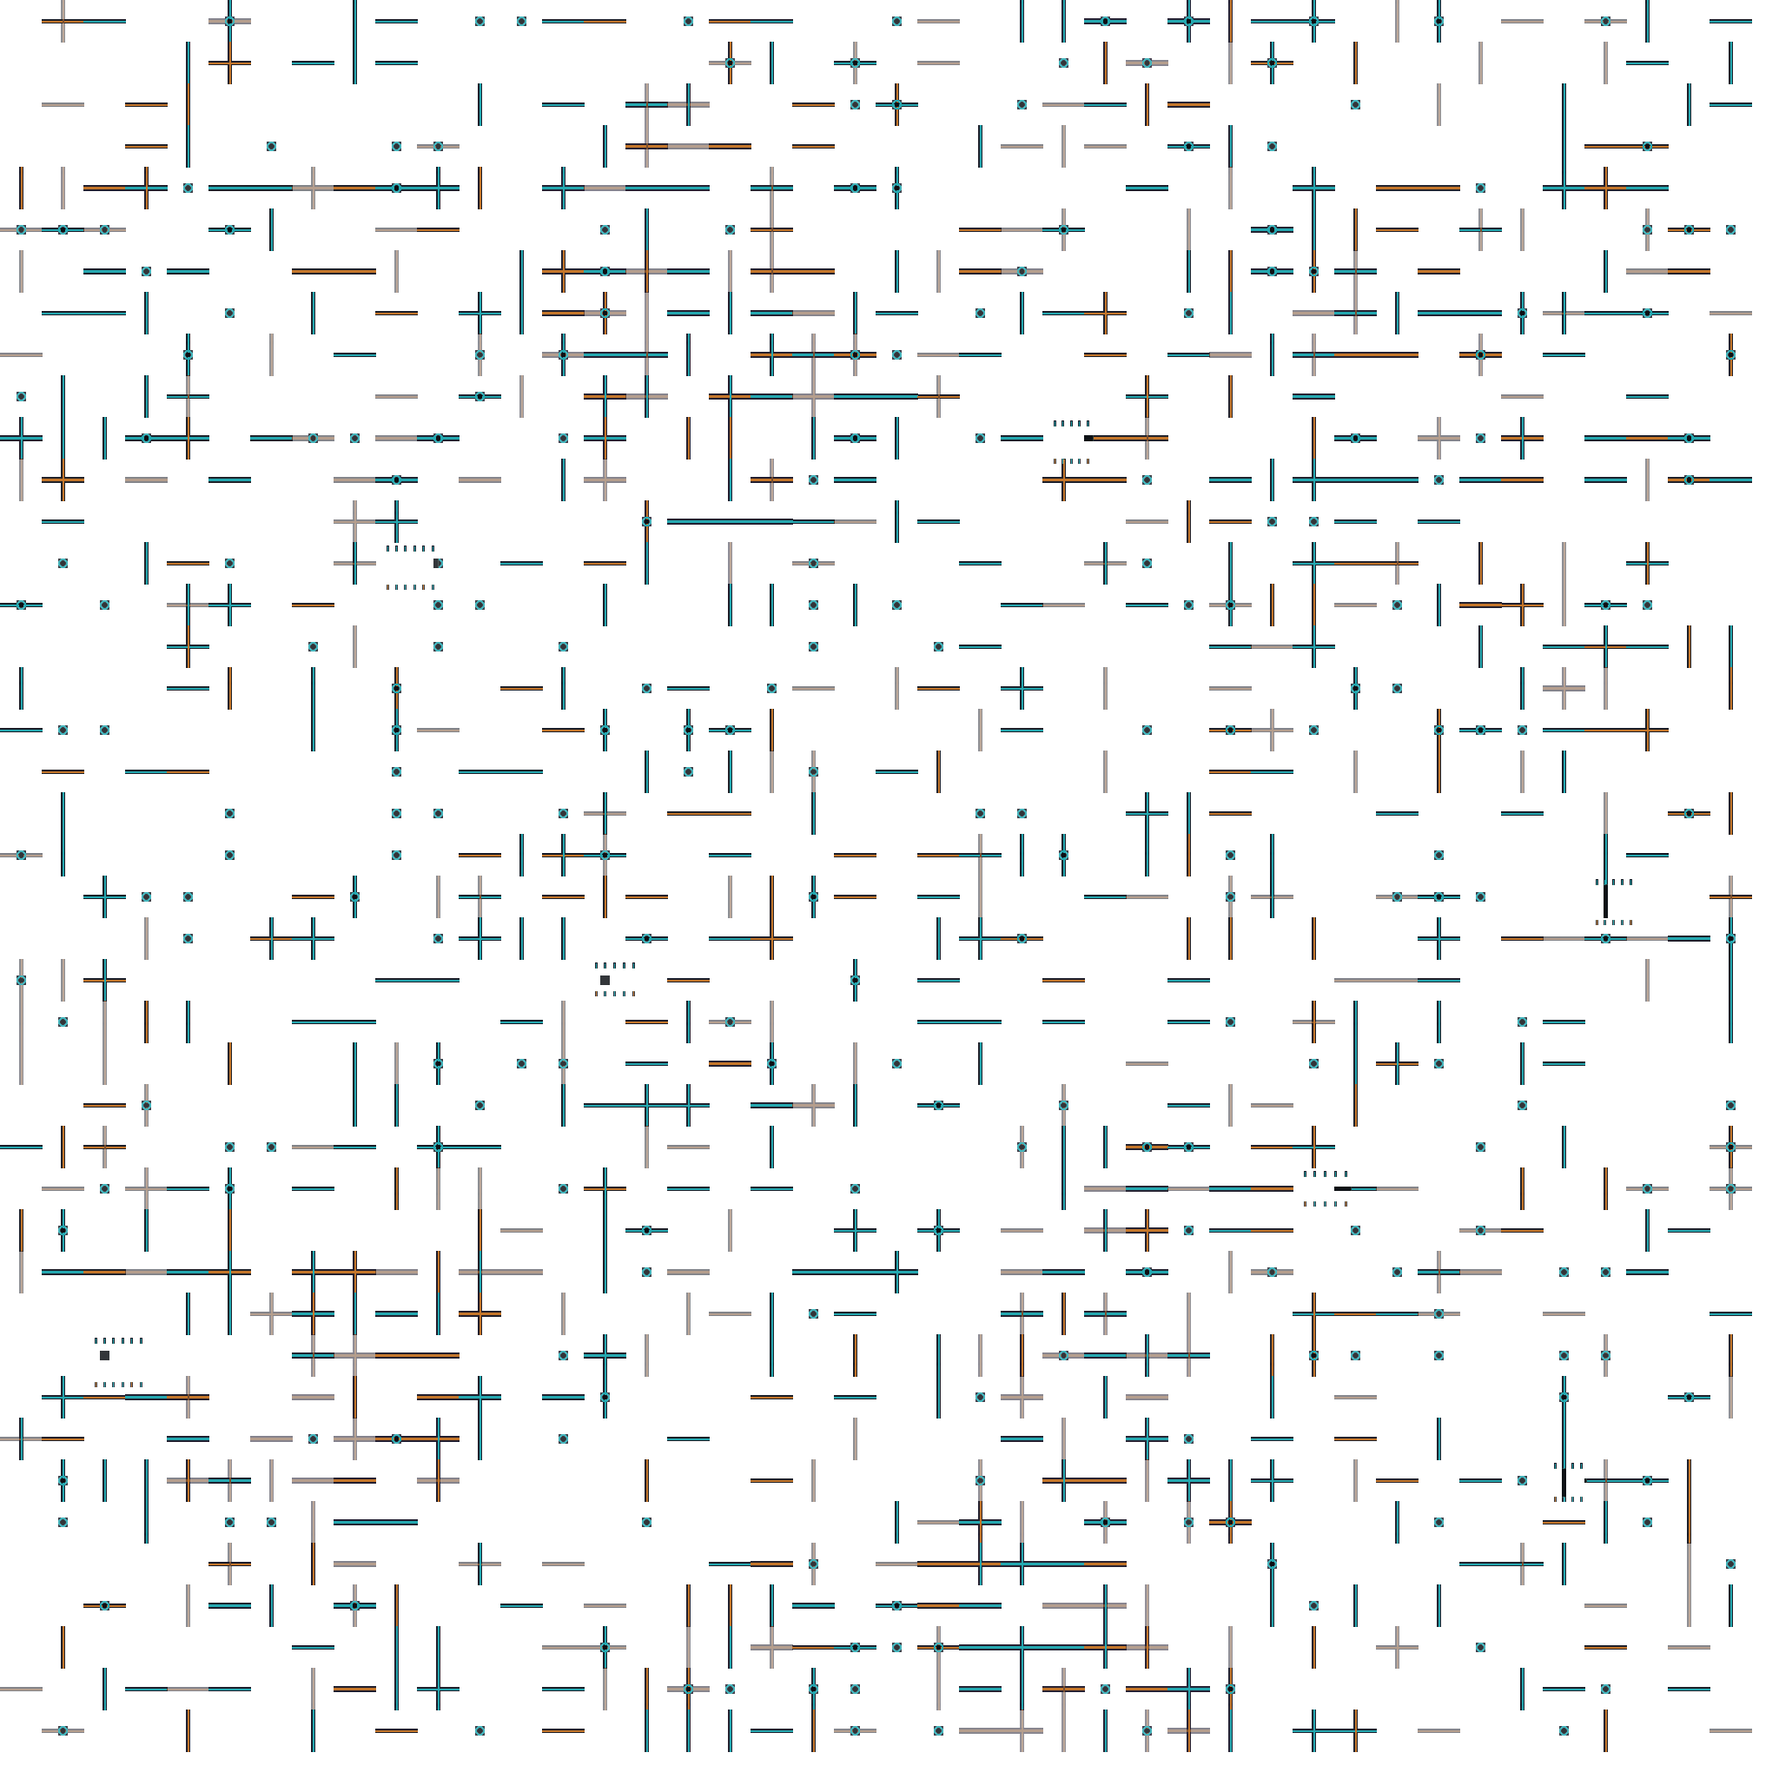
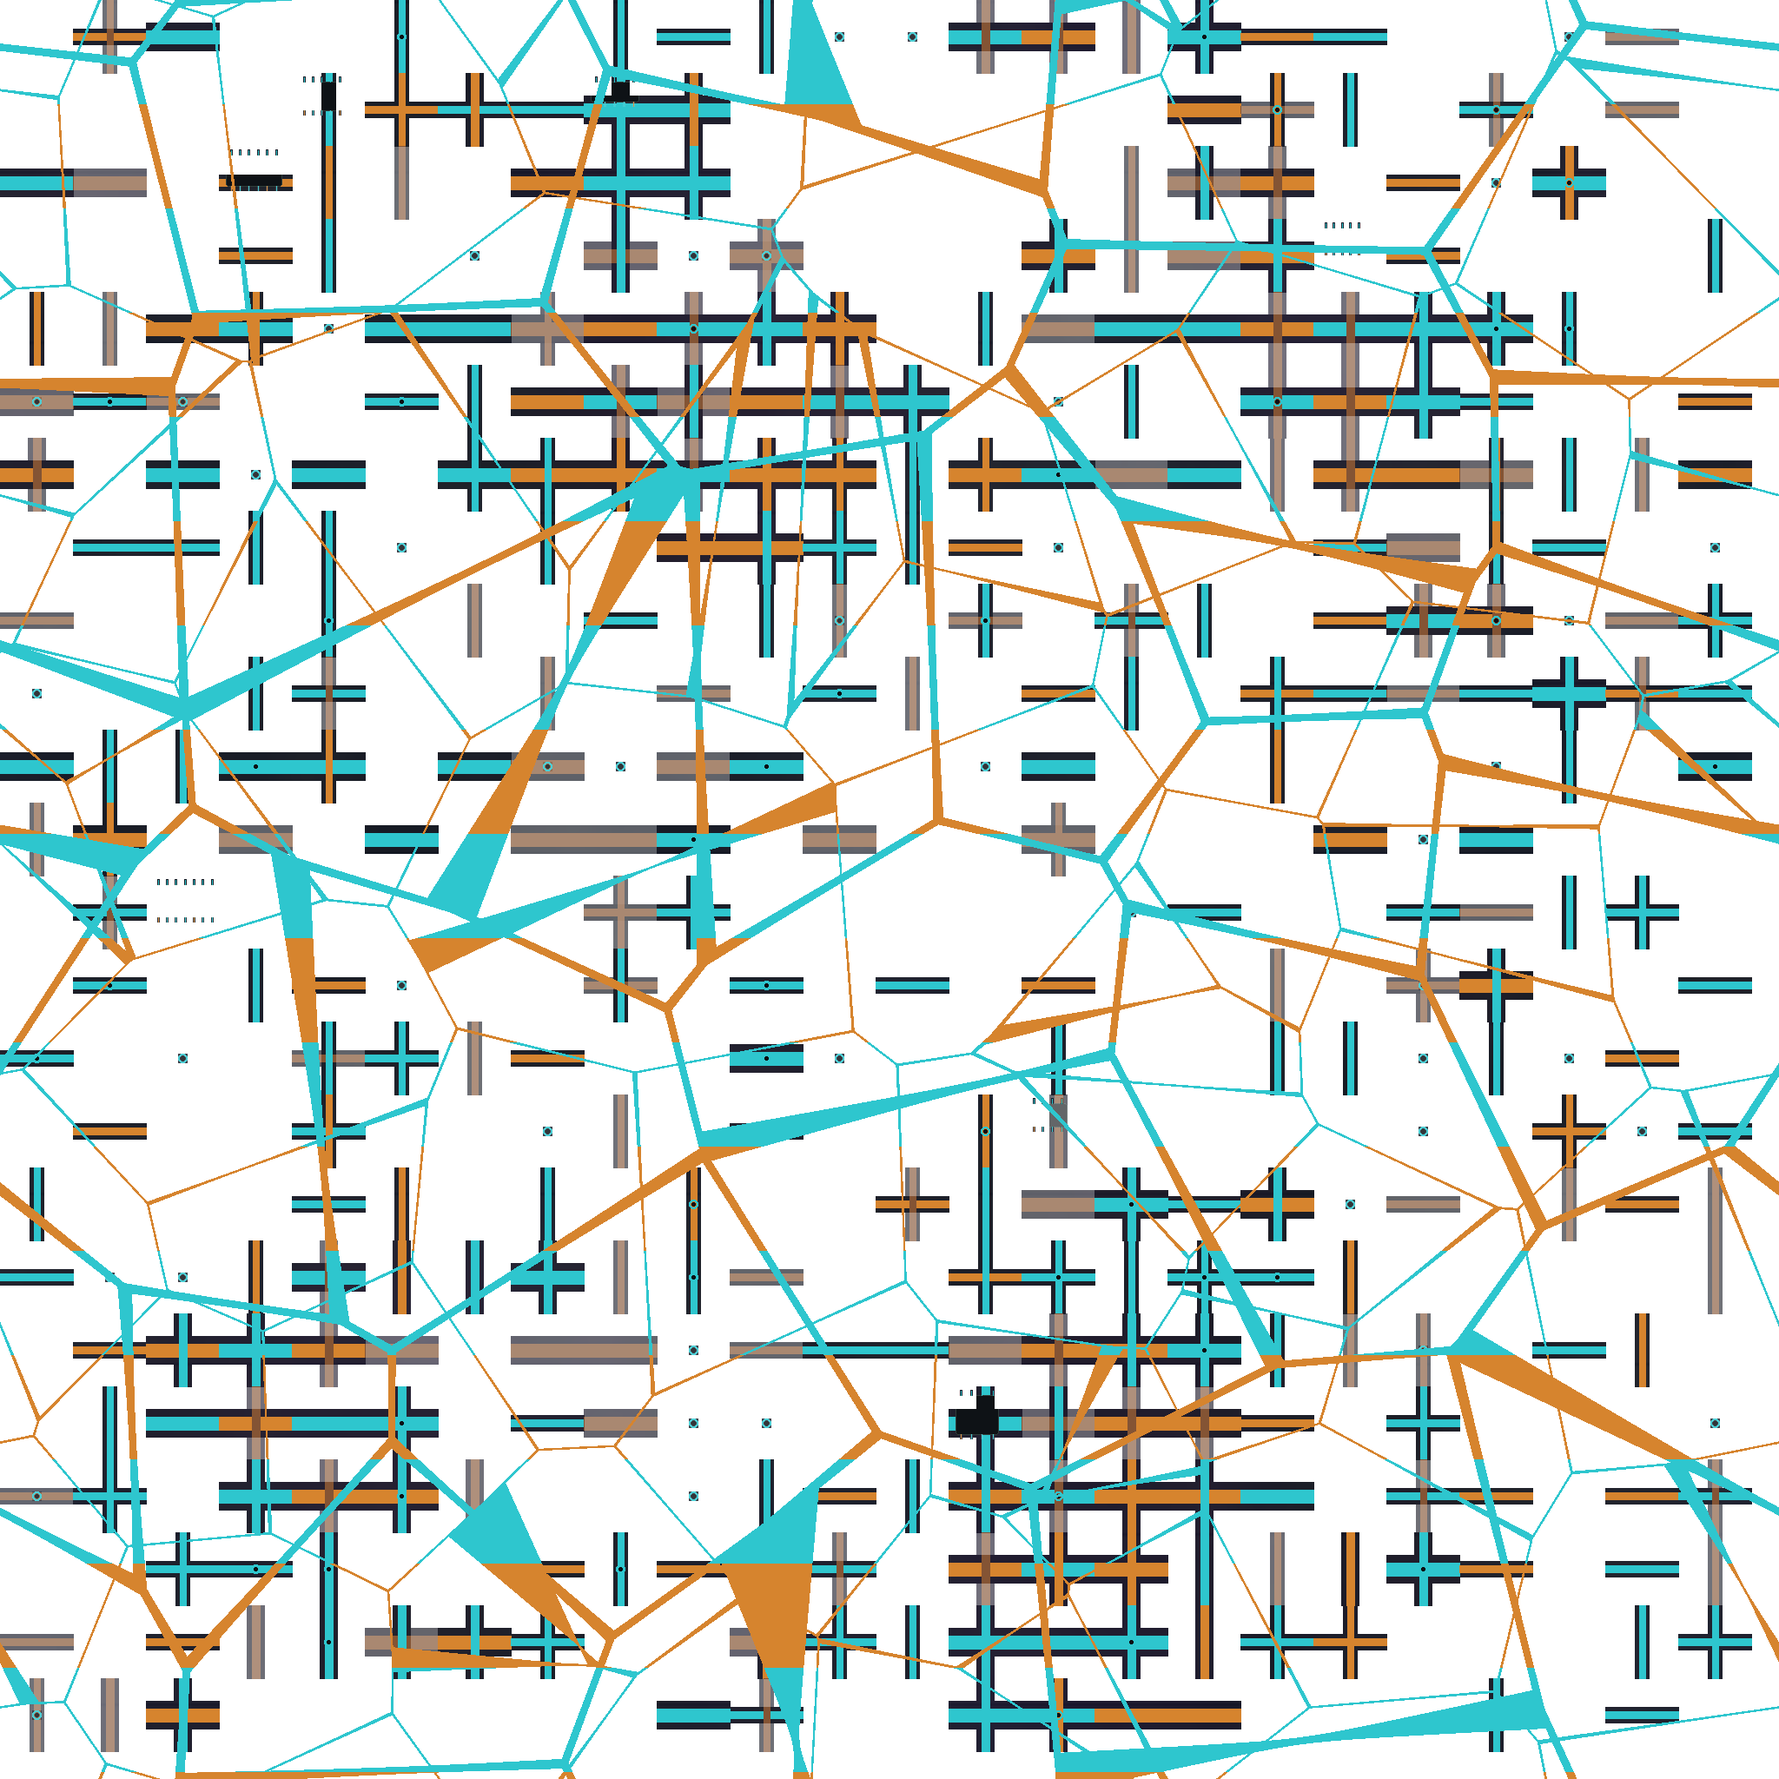
Harbor: dull the façade growth and open the circuit peeks
Night-grade the moss, kudzu, and fungus so the concrete stays a dark olive. Widen cracks, flakes, and corner peels so the circuit underlayer shows with a small glint, while the growth still covers most of the wall.

diff --git a/harbor.html b/harbor.html
@@ -1423,32 +1423,57 @@ const buildingMat = new THREE.ShaderMaterial({
       inPane *= (1.0 - inDoorCol);
       // Dual sheath on vertical concrete only (Virgil: circuit under, living cover).
       // Samples stay outside the branch — WebGL1 derivatives need a uniform flow.
-      // Tile is façade-local metres (concUV), not world XZ. Growth alpha is the
-      // cover: smoothstep keeps moss shut and leaves peeks in deep cracks and
-      // flaked patches. Low-frequency wear plus corner thinning open a few
-      // places the tile itself does not, so the sheet does not stamp.
-      vec2 sheathUv = concUV / 1.68 + vec2(vId * 0.37, vId * 0.21);
+      // Tile is façade-local metres (concUV), not world XZ.
+      // Growth alpha is mostly shut. Openings are the atlas cracks/flakes plus
+      // a few world-space worn patches, fissures, and a narrow corner peel —
+      // wide enough that the circuit actually reads at night.
+      vec2 sheathUv = concUV / 2.05 + vec2(vId * 0.37, vId * 0.21);
       vec4 circuit = texture2D(uSheathCircuit, sheathUv);
       vec4 growth = texture2D(uSheathGrowth, sheathUv);
-      float cover = smoothstep(0.18, 0.70, growth.a);
-      float worn = smoothstep(0.64, 0.80, fbm(concUV * 0.16 + vec2(vId * 0.07, 2.7)));
-      cover *= mix(1.0, 0.12, worn);
-      float edgePeek = 1.0 - smoothstep(0.045, 0.26, edgeDistM);
-      cover *= mix(1.0, 0.22, edgePeek);
+      // Cap the mat. A small olive lift stays under the paint threshold.
+      vec3 moss = min(growth.rgb, vec3(0.11, 0.14, 0.10));
+      moss.g = min(moss.g + 0.012, 0.14);
+      // Steep cover so a mip-blurred edge stays moss and a real opening stays open.
+      float cover = smoothstep(0.04, 0.30, growth.a);
+      // Binary openings — a soft shoulder was a bright circuit haze.
+      // Worn patches, a few per façade, large enough to show a run of traces.
+      float flake = step(0.80, fbm(concUV * 0.62 + vec2(2.2, vId * 0.09)));
+      // Fissures a few centimetres wide. Gated so they are not a barcode.
+      float seamU = abs(fract(concUV.x * 1.15 + vId * 0.13) - 0.5);
+      float seamV = abs(fract(concUV.y * 0.72 + 0.37) - 0.5);
+      float crackLine = max(step(seamU, 0.020), step(seamV, 0.016));
+      float crackGate = step(0.76, fbm(concUV * 0.48 + vec2(vId, 5.1)));
+      float edgePeek = step(edgeDistM, 0.10);
+      cover *= 1.0 - max(max(flake, crackLine * crackGate), edgePeek);
       cover = clamp(cover, 0.0, 1.0);
-      vec3 under = mix(wallCol, circuit.rgb, 0.86);
-      float trace = circuit.a * (1.0 - cover);
-      vec3 sheathCol = mix(under, growth.rgb, cover);
-      // Night glint on uncovered traces. Small lift — lanterns still own bloom.
-      sheathCol += circuit.rgb * trace * 0.32;
-      sheathCol = mix(sheathCol, sheathCol * vec3(0.88, 0.94, 1.04), (1.0 - ndl) * 0.30);
+      // Board that shows inside an opening: atlas traces, plus metre-scale
+      // runs so a flake is recognizably circuitry and not bare concrete.
+      float hOn = step(0.42, hash(vec2(floor(concUV.y * 3.4), vId + 1.0)));
+      float vOn = step(0.52, hash(vec2(floor(concUV.x * 2.8), vId + 4.0)));
+      float hLine = 1.0 - smoothstep(0.03, 0.11, abs(fract(concUV.y * 3.4) - 0.5));
+      float vLine = 1.0 - smoothstep(0.03, 0.10, abs(fract(concUV.x * 2.8) - 0.5));
+      float pcb = max(hLine * hOn, vLine * vOn);
+      float viaCell = hash(floor(concUV * 3.4) + vec2(vId, 2.0));
+      float via = smoothstep(0.16, 0.02, length(fract(concUV * 3.4) - 0.5));
+      pcb = max(pcb, via * step(0.78, viaCell));
+      float amberPick = step(0.67, hash(vec2(floor(concUV.y * 3.4 + concUV.x), vId)));
+      vec3 traceCol = mix(vec3(0.09, 0.40, 0.44), vec3(0.52, 0.26, 0.07), amberPick);
+      // Atlas traces are hot in the PNG; pull them into a night glint before mix.
+      vec3 circuitNight = mix(circuit.rgb * 0.72, circuit.rgb * vec3(0.42, 0.55, 0.55), circuit.a);
+      vec3 under = mix(circuitNight, traceCol, max(pcb, circuit.a));
+      vec3 sheathCol = mix(under, moss, cover);
+      // Subtle night glint on whatever trace is actually uncovered.
+      float exposed = max(pcb, circuit.a) * (1.0 - cover);
+      sheathCol += traceCol * exposed * 0.16;
+      sheathCol = mix(sheathCol, sheathCol * vec3(0.90, 0.94, 1.03), (1.0 - ndl) * 0.22);
       float sheathGate = step(0.5, uSheathOn) * isVert;
       vec3 faceCol = mix(wallCol, sheathCol, sheathGate);
       // Unsheathed mullion (roof fallback / failed atlas) stays the old dark bar.
       vec3 mullionPlain = mix(wallCol * 0.42, vColor * 0.08 + vec3(0.012, 0.013, 0.018), 0.55);
-      // Sheathed mullion is the same growth, dimmed, so the frame still cuts
-      // the fenestra and a little moss / trace still reads on the bar.
-      vec3 mullionSheath = mix(sheathCol * vec3(0.52, 0.58, 0.46), vec3(0.008, 0.012, 0.011), 0.24);
+      // Frame stays darker than the pier. The glint is re-added so a trace
+      // on the bar is not crushed back into the moss.
+      vec3 mullionSheath = mix(sheathCol, vec3(0.010, 0.014, 0.012), 0.34);
+      mullionSheath += traceCol * exposed * 0.20;
       vec3 mullionCol = mix(mullionPlain, mullionSheath, sheathGate);
       vec3 body = mix(faceCol, mullionCol, frameBand * 0.94);
 
@@ -1853,15 +1878,16 @@ loadStreetAtlas();
 
 // Circuit underlayer + moss/kudzu/fungus cover. Vertical concrete only.
 // A failed load leaves uSheathOn at 0 (procedural night concrete).
-const sheathCache = location.protocol === 'file:' ? '' : '?v=sheath1';
+const sheathCache = location.protocol === 'file:' ? '' : '?v=sheath3';
 function prepSheath(tex) {
   tex.colorSpace = THREE.NoColorSpace;
   tex.wrapS = THREE.RepeatWrapping;
   tex.wrapT = THREE.RepeatWrapping;
-  tex.minFilter = THREE.LinearMipmapLinearFilter;
+  // No mips — a blurred alpha turns the circuit into a bright haze.
+  tex.minFilter = THREE.LinearFilter;
   tex.magFilter = THREE.LinearFilter;
-  tex.generateMipmaps = true;
-  tex.anisotropy = Math.min(8, renderer.capabilities.getMaxAnisotropy());
+  tex.generateMipmaps = false;
+  tex.anisotropy = 1;
   tex.needsUpdate = true;
   return tex;
 }

diff --git a/06-intermediate-assets/gen-facade-sheath.py b/06-intermediate-assets/gen-facade-sheath.py
@@ -164,7 +164,14 @@ def worn_mask(rng):
     return np.clip(worn, 0.0, 1.0)
 
 
-def build_circuit(rng, worn):
+def make_cracks(rng):
+    """Fissures a couple of centimetres wide once the tile is ~2 m on the wall."""
+    crack = torus_voronoi_edge(N, 28, 22.0, rng)
+    fine = torus_voronoi_edge(N, 64, 9.0, np.random.default_rng(int(rng.integers(0, 1_000_000))))
+    return np.clip(np.maximum(crack, fine * 0.85), 0.0, 1.0)
+
+
+def build_circuit(rng, worn, crack):
     concrete_n = fbm(N, rng, 5, 4)
     fine = fbm(N, rng, 3, 28)
     stain = fbm(N, rng, 3, 7)
@@ -188,9 +195,10 @@ def build_circuit(rng, worn):
     draw = ImageDraw.Draw(img)
 
     trace = np.zeros((N, N), np.float32)
-    teal = (36, 168, 176, 255)
-    amber = (196, 118, 42, 255)
-    copper = (120, 78, 48, 255)
+    # Bright enough to read in a night opening, not a neon flood.
+    teal = (46, 198, 206, 255)
+    amber = (214, 132, 46, 255)
+    copper = (132, 84, 52, 255)
 
     def stroke(p0, p1, color, width, strength):
         draw.line([p0, p1], fill=color, width=width)
@@ -222,7 +230,7 @@ def build_circuit(rng, worn):
                 trace[ya:, x0b:x1b] = np.maximum(trace[ya:, x0b:x1b], strength)
                 trace[: yb + 1, x0b:x1b] = np.maximum(trace[: yb + 1, x0b:x1b], strength)
 
-    grid = 48
+    grid = 84
     cells = N // grid
     # Sparse Manhattan traces. Highways on a few rows/cols.
     for j in range(cells):
@@ -236,19 +244,19 @@ def build_circuit(rng, worn):
             wx = min(N - 1, x0 + grid // 2)
             wy = min(N - 1, y)
             local = float(worn[wy, wx])
-            thresh = 0.78 - 0.28 * local - (0.18 if highway else 0.0)
+            thresh = 0.74 - 0.62 * local - (0.22 if highway else 0.0)
             if h > thresh:
                 col = amber if cell_hash(i, j, 4) > 0.72 else (teal if cell_hash(i, j, 5) > 0.35 else copper)
-                width = 3 if highway or local > 0.45 else 2
-                stroke((x0, y), (x1, y), col, width, 1.0 if col != copper else 0.55)
+                width = 16 if highway or local > 0.4 else 9
+                stroke((x0, y), (x1, y), col, width, 1.0 if col != copper else 0.7)
             x = i * grid + grid // 2
             y0 = j * grid
             y1 = y0 + grid
             v = cell_hash(i, j, 6)
-            vthresh = 0.80 - 0.30 * local
+            vthresh = 0.76 - 0.64 * local
             if v > vthresh:
                 col = amber if cell_hash(i, j, 7) > 0.78 else (teal if cell_hash(i, j, 8) > 0.4 else copper)
-                stroke((x, y0), (x, y1), col, 2, 1.0 if col != copper else 0.5)
+                stroke((x, y0), (x, y1), col, 10 if local > 0.35 else 8, 1.0 if col != copper else 0.65)
 
     # Vias and a few dark IC pads — pads stay matte, pins carry the glint.
     via_r = 5
@@ -283,23 +291,36 @@ def build_circuit(rng, worn):
             trace[y + h: min(N, y + h + 6), max(0, xi - 1): min(N, xi + 2)] = 0.9
 
     arr = np.array(img)
+    # Fissures themselves carry a trace, so a crack opens onto circuitry
+    # rather than bare concrete.
+    core = crack > 0.62
+    band = (np.arange(N, dtype=np.int32)[:, None] // 120) & 1
+    teal_m = core & (band == 0)
+    amber_m = core & (band == 1)
+    arr[teal_m, 0] = 46
+    arr[teal_m, 1] = 198
+    arr[teal_m, 2] = 206
+    arr[amber_m, 0] = 214
+    arr[amber_m, 1] = 132
+    arr[amber_m, 2] = 46
+    trace = np.maximum(trace, core.astype(np.float32))
     # alpha = trace strength. Concrete stays 0 so the shader glow is traces only.
     arr[:, :, 3] = np.clip(trace * 255.0, 0, 255).astype(np.uint8)
     return arr
 
 
-def build_growth(rng, worn):
+def build_growth(rng, worn, crack):
     base_n = fbm(N, rng, 5, 4)
     blot = fbm(N, rng, 4, 8)
     fine = fbm(N, rng, 3, 22)
     damp = fbm(N, rng, 3, 6)
-    # Deep wet olive. Local contrast so leaves and shelves survive night grade.
-    r = 16 + base_n * 22 + blot * 10
-    g = 28 + base_n * 36 + blot * 14
-    b = 14 + base_n * 16 + damp * 8
-    r += (fine - 0.5) * 10
-    g += (fine - 0.5) * 14
-    b += (damp - 0.5) * 8
+    # Dull night olive. Green stays ahead of red, but the value stays low.
+    r = 20 + base_n * 16 + blot * 6
+    g = 30 + base_n * 26 + blot * 8
+    b = 16 + base_n * 12 + damp * 5
+    r += (fine - 0.5) * 6
+    g += (fine - 0.5) * 8
+    b += (damp - 0.5) * 5
     # Blue-black damp pockets
     pocket = np.clip((damp - 0.62) / 0.25, 0.0, 1.0)
     r = r * (1 - 0.35 * pocket) + pocket * 10
@@ -321,15 +342,15 @@ def build_growth(rng, worn):
         # hanging bias: mostly downward, some lateral creep
         bias = float(rng.uniform(0.35, 1.15))
         vine_col = (
-            int(rng.integers(28, 58)),
-            int(rng.integers(36, 62)),
-            int(rng.integers(16, 30)),
+            int(rng.integers(16, 32)),
+            int(rng.integers(20, 36)),
+            int(rng.integers(12, 22)),
             255,
         )
         leaf_rgb = (
-            int(rng.integers(36, 78)),
-            int(rng.integers(64, 118)),
-            int(rng.integers(22, 48)),
+            int(rng.integers(26, 42)),
+            int(rng.integers(40, 62)),
+            int(rng.integers(18, 30)),
         )
         pts = []
         for s in range(steps):
@@ -368,10 +389,10 @@ def build_growth(rng, worn):
         y = float(rng.uniform(0, N))
         rad = float(rng.uniform(6, 28))
         col = (
-            int(rng.integers(18, 52)),
-            int(rng.integers(40, 92)),
-            int(rng.integers(16, 40)),
-            int(rng.integers(150, 220)),
+            int(rng.integers(18, 34)),
+            int(rng.integers(32, 52)),
+            int(rng.integers(14, 26)),
+            int(rng.integers(160, 220)),
         )
         sprite = Image.new("RGBA", (int(rad * 2 + 2), int(rad * 2 + 2)), (0, 0, 0, 0))
         ImageDraw.Draw(sprite).ellipse([1, 1, sprite.size[0] - 2, sprite.size[1] - 2], fill=col)
@@ -388,10 +409,10 @@ def build_growth(rng, worn):
             h = float(rng.uniform(7, 14))
             yy = cy + s * float(rng.uniform(6, 11))
             bone = (
-                int(rng.integers(118, 168)),
-                int(rng.integers(96, 132)),
-                int(rng.integers(62, 92)),
-                int(rng.integers(210, 250)),
+                int(rng.integers(58, 78)),
+                int(rng.integers(50, 66)),
+                int(rng.integers(38, 52)),
+                int(rng.integers(200, 240)),
             )
             sprite = Image.new("RGBA", (int(w + 8), int(h + 10)), (0, 0, 0, 0))
             sd = ImageDraw.Draw(sprite)
@@ -422,23 +443,21 @@ def build_growth(rng, worn):
 
     arr = np.array(img).astype(np.float32)
     # Crevice darkening along cracks, applied after the draw so vines sit in the mat.
-    crack = torus_voronoi_edge(N, 42, 3.2, rng)
-    fine_crack = torus_voronoi_edge(N, 90, 1.6, np.random.default_rng(rng.integers(0, 1_000_000)))
-    crack = np.clip(crack + fine_crack * 0.85, 0.0, 1.0)
-    shade = 1.0 - 0.42 * crack
+    shade = 1.0 - 0.28 * np.clip(crack, 0.0, 1.0)
     arr[:, :, 0] *= shade
     arr[:, :, 1] *= shade
-    arr[:, :, 2] *= shade * (1.0 - 0.08 * crack)
+    arr[:, :, 2] *= shade
+    # Cap, then sit the whole mat near the night-concrete value.
+    arr[:, :, 0] = np.minimum(arr[:, :, 0], 64.0) * 0.58
+    arr[:, :, 1] = np.minimum(arr[:, :, 1], 74.0) * 0.55
+    arr[:, :, 2] = np.minimum(arr[:, :, 2], 52.0) * 0.60
 
-    # Cover: mostly closed. Cracks and shared worn patches open onto the circuit.
-    cover = 232 + fbm(N, rng, 3, 10) * 23
-    cover -= crack * 210
-    cover -= worn * 195
-    # fray inside worn patches stays ragged rather than a clean hole
-    cover += (1.0 - crack) * worn * 28
-    cover = np.clip(cover, 6, 255)
-    arr[:, :, 3] = cover
-    return np.clip(arr, 0, 255).astype(np.uint8), crack, worn
+    # Hard openings only — the soft voronoi shoulder was a circuit haze.
+    crack_open = np.clip((crack - 0.66) / 0.24, 0.0, 1.0)
+    worn_open = np.clip((worn - 0.55) / 0.28, 0.0, 1.0)
+    cover = 252.0 - np.maximum(crack_open, worn_open) * 250.0
+    arr[:, :, 3] = np.clip(cover, 0.0, 255.0)
+    return np.clip(arr, 0, 255).astype(np.uint8)
 
 
 def preview(circuit, growth, path):
@@ -473,10 +492,12 @@ def main():
     rng = np.random.default_rng(0x4D4F5353)  # MOSS
     print("worn mask…")
     worn = worn_mask(rng)
+    print("cracks…")
+    crack = make_cracks(rng)
     print("circuit…")
-    circuit = build_circuit(rng, worn)
+    circuit = build_circuit(rng, worn, crack)
     print("growth…")
-    growth, crack, worn = build_growth(rng, worn)
+    growth = build_growth(rng, worn, crack)
     cpath = os.path.join(ROOT, "facade-circuit.png")
     gpath = os.path.join(ROOT, "facade-growth.png")
     Image.fromarray(circuit, "RGBA").save(cpath, optimize=True, compress_level=9)
